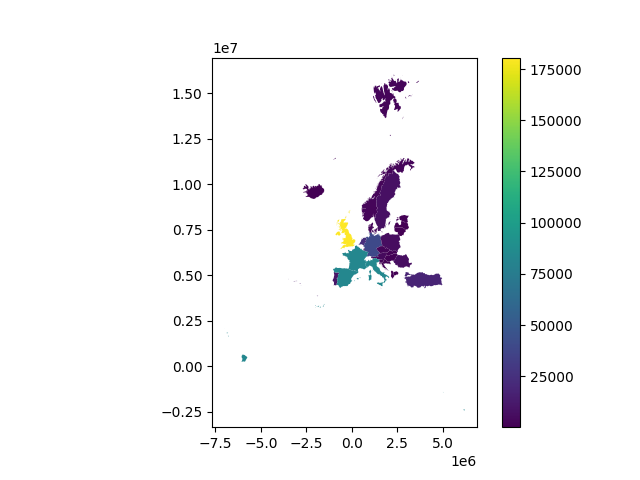
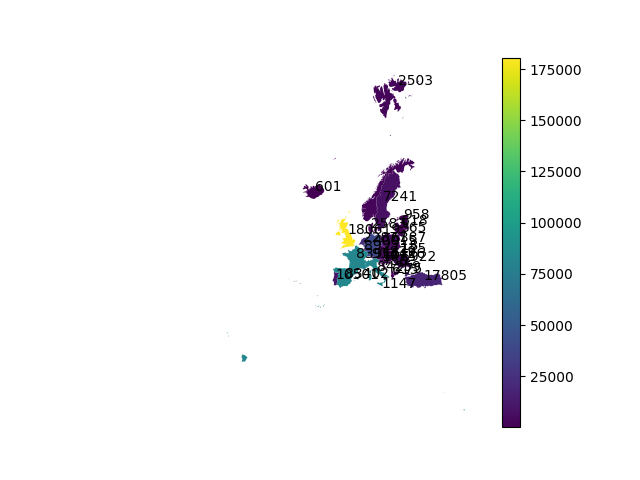
improve heatmap visualization

diff --git a/exploration_data_analyse/COVID-19-TweetIDs-dataset-analyse.py b/exploration_data_analyse/COVID-19-TweetIDs-dataset-analyse.py
@@ -183,10 +183,11 @@ def heatmap(file_tweets_count, file_bundaries, plot_path):
 
     :param df_tweets_count: Nb of tweets by european country : retrive with kibana (visualization "agile_european-extent" and then export into csv. Replace ',' for thousand
     :param bundaries: retrive from mundialis GeoNetwork https://data.mundialis.de/geonetwork/srv/fre/catalog.search#/metadata/10d41695-7f98-45eb-bd71-41ec401aa278
-    :plot_path: where to save
+    :param plot_path: where to save
     :return:
     """
     tweets_count = pd.read_csv(file_tweets_count)
+    tweets_count_trad = pd.DataFrame(columns=["country_english_name", "Count"])
     boundaries_geom = gpd.read_file(file_bundaries)
     # Merge the two dataframes on country name
     tweets_count_geo = boundaries_geom.merge(tweets_count, left_on="NUTS_NAME", right_on="rest_user_osm.country.keyword_Descending")[['geometry', 'Count', 'NUTS_NAME']]
@@ -194,7 +195,13 @@ def heatmap(file_tweets_count, file_bundaries, plot_path):
     tweets_count_geo.Count = tweets_count_geo.Count.astype(int)
     # create the plot :
     tweets_count_geo.plot(column='Count', legend=True)
+    # Add values for each country on plot
+    tweets_count_geo['coords'] = tweets_count_geo['geometry'].apply(lambda x: x.representative_point().coords[:])
+    tweets_count_geo['coords'] = [coords[0] for coords in tweets_count_geo['coords']]
+    for i, row in tweets_count_geo.iterrows():
+        plt.annotate(s=row["Count"], xy=row["coords"])
     # save plot
+    plt.axis('off')
     plt.savefig(plot_path)
     # display plot :
     plt.show()
@@ -208,6 +215,8 @@ if __name__ == '__main__':
     boundaries_file = heatmap_path + "/NUTS_RG_10M_2021_3857_LEVL_0.geojson"
     ## Nb of tweets by european country : retrive with kibana (visualization "agile_european-extent" and then export into csv. Replace ',' for thousand
     nb_tweets_file = heatmap_path + '/agile_european-extent.csv'
+    ## Geocoding translatation
+    geocoding_trad = heatmap_path + "/european_country-name_translation.csv"
     ## path to save plot
     plot_path = heatmap_path + "/cloropleth_map_europe_tweeetcountbycountry.png"
     ## Plot :
